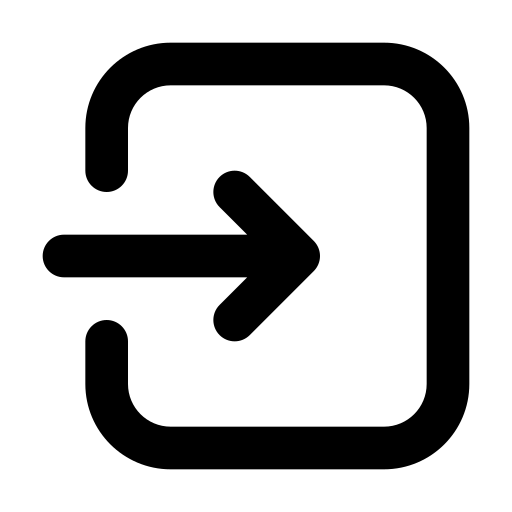
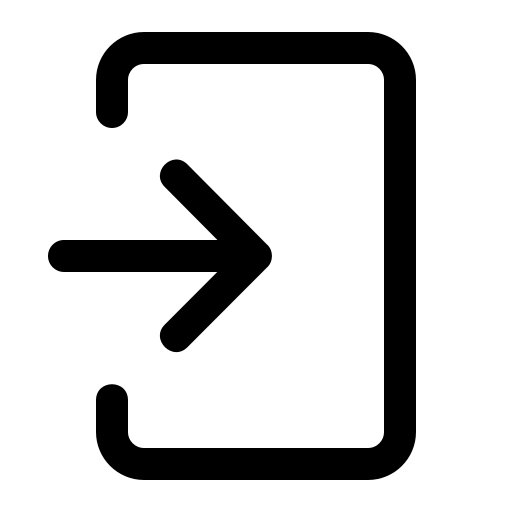
update code

diff --git a/assets/css/style.css b/assets/css/style.css
@@ -146,3 +146,5 @@ button[type=submit]:hover {
     background-color: #c9d7de;
 }
 
+.header-link span {
+}

diff --git a/inc/header.php b/inc/header.php
@@ -19,41 +19,79 @@
                 <ul class="navbar-nav ms-auto mb-2 mb-lg-0 gap-2 align-items-lg-center">
                     <li class="nav-item">
                         <?php $link[$page_index]['value'] = "home.php"; ?>
-                        <a class="d-flex d-lg-block align-items-center gap-3 header-link" href="<?= navigation_link($link) ?>"> 
-                            <img class="d-block d-lg-none" src="../assets/images/home.png" alt="" style="width: 35px; height: 35px">
-                            <img class="d-none d-lg-block" src="../assets/images/home.png" alt="" style="width: 25px; height: 25px">
-                            <span class="text-black fs-6 d-block d-lg-none">Home</span>
-                        </a>
+                        <div class="d-block d-lg-none">
+                            <a class="d-flex align-items-center header-link gap-2" href="<?= navigation_link($link) ?>"> 
+                                <img class="" src="../assets/images/home.png" alt="" style="width: 35px; height: 35px; padding: 5px;">
+                                <span class="text-black d-block d-lg-none">Home</span>
+                            </a>
+                        </div>
+                        <div class="d-none d-lg-block">
+                            <a class="rounded-circle d-flex align-items-center header-link gap-2" href="<?= navigation_link($link) ?>"> 
+                                <img class="" src="../assets/images/home.png" alt="" style="width: 35px; height: 35px; padding: 5px;">
+                                <span class="text-black d-block d-lg-none">Home</span>
+                            </a>
+                        </div>
                     </li>
                     <li class="nav-item">
                         <?php $link[$page_index]['value'] = "home.php"; ?>
-                        <a class="d-flex d-lg-block align-items-center gap-3 header-link" href="#"> 
-                            <img class="d-block d-lg-none" src="../assets/images/plus.png" alt="" style="width: 35px; height: 35px">
-                            <img class="d-none d-lg-block" src="../assets/images/plus.png" alt="" style="width: 25px; height: 25px">
-                            <span class="text-black fs-6 d-block d-lg-none">Create</span>
-                        </a>
+                        <div class="d-block d-lg-none">
+                            <a class="d-flex align-items-center header-link gap-2" href="#"> 
+                                <img class="" src="../assets/images/plus.png" alt="" style="width: 35px; height: 35px; padding: 5px;">
+                                <span class="text-black d-block d-lg-none">Create</span>
+                            </a>
+                        </div>
+                        <div class="d-none d-lg-block">
+                             <a class="rounded-pill d-flex align-items-center header-link gap-2" href="#"> 
+                                <img class="" src="../assets/images/plus.png" alt="" style="width: 35px; height: 35px; padding: 5px;">
+                                <span class="text-black d-block d-lg-none">Create</span>
+                            </a>
+                        </div>
                     </li>
                     <li class="nav-item dropdown">
-                        <button type="button" class="d-flex d-lg-block align-items-center gap-3 header-link" data-bs-toggle="dropdown" data-bs-display="static" aria-expanded="false" style="border: none; width: 100%;">
-                            <img src="<?= $user_header['u_image'] ?>" alt="" style="width: 35px; height: 35px">
-                            <span class="text-black fs-6 d-block d-lg-none">Profil</span>
-                        </button>
-                        <ul class="dropdown-menu dropdown-menu-lg-end">
-                            <li>
-                                <?php $link[$page_index]['value'] = "profile.php"; ?>
-                                <a class="d-flex align-items-center gap-3 header-link" href="<?= navigation_link($link) ?>">
-                                    <img src="<?= $user_header['u_image'] ?>" alt="" style="width: 35px; height: 35px">
-                                    <span class="text-black fs-6 d-block">Profil</span>
-                                </a>
-                            </li>
-                            <li>
-                                <?php $link[$page_index]['value'] = "profile.php"; ?>
-                                <a class="d-flex align-items-center gap-3 header-link" href="#">
-                                    <img src="../assets/images/log-out.png" alt="" style="width: 35px; height: 35px">
-                                    <span class="text-black fs-6 d-block">Log out</span>
-                                </a>
-                            </li>
-                        </ul>
+                        <div class="d-block d-lg-none">
+                            <button type="button" class="d-flex align-items-center header-link gap-2" data-bs-toggle="dropdown" data-bs-display="static" aria-expanded="false" style="border: none; width: 100%;">
+                                <img class="" src="<?= $user_header['u_image'] ?>" alt="" style="width: 35px; height: 35px">
+                                <span class="text-black d-block d-lg-none">Profile</span>
+                            </button>
+                            <ul class="dropdown-menu dropdown-menu-lg-end" style="min-width: 250px;">
+                                <li>
+                                    <?php $link[$page_index]['value'] = "profile.php"; ?>
+                                    <a class="d-flex align-items-center header-link gap-2" href="<?= navigation_link($link) ?>" style="padding: 10px 0px 10px 16px;">
+                                        <img class="" src="<?= $user_header['u_image'] ?>" alt="" style="width: 35px; height: 35px">
+                                        <span class="text-black d-block">View Profile</span>
+                                    </a>
+                                </li>
+                                <li>
+                                    <?php $link[$page_index]['value'] = "profile.php"; ?>
+                                    <a class="d-flex align-items-center header-link gap-2" href="#" style="padding: 10px 0px 10px 16px;">
+                                        <img class="" src="../assets/images/log-out.png" alt="" style="width: 35px; height: 35px; padding: 5px;">
+                                        <span class="text-black d-block">Log Out</span>
+                                    </a>
+                                </li>
+                            </ul>
+                        </div>
+                        <div class="d-none d-lg-block">
+                            <button type="button" class="rounded-circle d-flex align-items-center header-link gap-2" data-bs-toggle="dropdown" data-bs-display="static" aria-expanded="false" style="border: none; width: 100%;">
+                                <img src="<?= $user_header['u_image'] ?>" alt="" style="width: 35px; height: 35px">
+                                <span class="text-black d-block d-lg-none">Profile</span>
+                            </button>
+                            <ul class="dropdown-menu dropdown-menu-lg-end" style="min-width: 250px;">
+                                <li>
+                                    <?php $link[$page_index]['value'] = "profile.php"; ?>
+                                    <a class="d-flex align-items-center header-link gap-2" href="<?= navigation_link($link) ?>" style="padding: 10px 0px 10px 16px;">
+                                        <img class="" src="<?= $user_header['u_image'] ?>" alt="" style="width: 35px; height: 35px">
+                                        <span class="text-black d-block">View Profil</span>
+                                    </a>
+                                </li>
+                                <li>
+                                    <?php $link[$page_index]['value'] = "login.php"; ?>
+                                    <a class="d-flex align-items-center header-link gap-2" href="<?= navigation_link($link) ?>" style="padding: 10px 0px 10px 16px;">
+                                        <img class="" src="../assets/images/log-out.png" alt="" style="width: 35px; height: 35px; padding: 5px;">
+                                        <span class="text-black d-block">Log Out</span>
+                                    </a>
+                                </li>
+                            </ul>
+                        </div>
                     </li>
                 </ul>
             </div>

diff --git a/index.php b/index.php
@@ -1,3 +1,3 @@
 <?php
-    header('Location:pages/model.php?page=sign.php'); 
+    header('Location:pages/model.php?page=login.php'); 
 ?>
